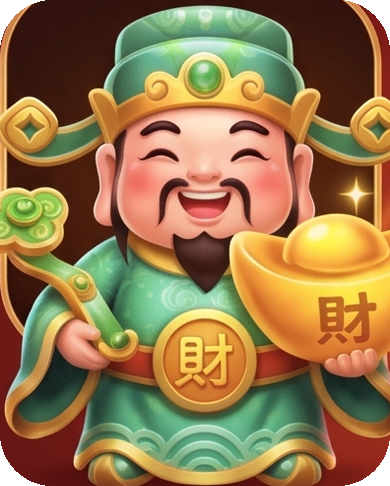
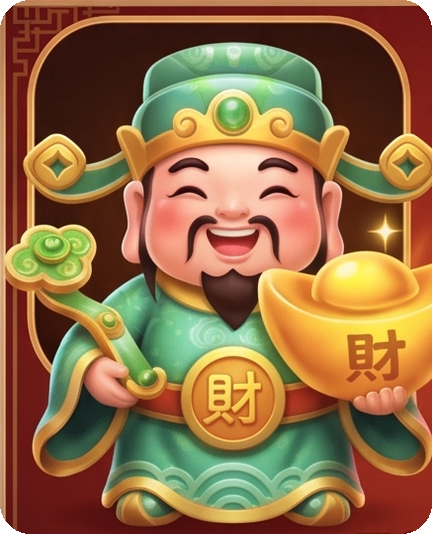
skin: 財神切圖右緣切到元寶，重切並修獎池滾輪位置
- deco-mascot：切框右緣從 690 拉到 703（含元寶溢出面板的部分），上緣補到面板真正的
  邊界 963；layout 改成 x136 y379 w216 h267
- board-frame：中央卡的底色改從「財神面板右側乾淨帶 + 滾輪左側卡底」取樣，
  原本取卡片最左緣（帶陰影）導致底色偏暗，財神那塊會浮出一個亮色方框
- pool.digits：改用美術稿實測值（x201 y646 w319 h104 / 49x79），
  「目前累積」不再被財神面板壓到

diff --git a/tools/build-skin.py b/tools/build-skin.py
@@ -19,7 +19,7 @@ a = np.asarray(im).astype(np.uint8)
 FRAME = (38, 613, 1400, 1966)        # 盤面外框
 CARD = (252, 829, 1178, 1745)        # 中央紅卡
 RIBBON = (252, 826, 1178, 972)       # 卡片頂端「財神樂透」緞帶
-MASCOT = (294, 1000, 690, 1490)      # 財神內嵌面板
+MASCOT = (266, 963, 703, 1500)       # 財神內嵌面板（右邊界要含元寶溢出的部分，切在賠率表文字左緣之前）
 TITLE_BAND = (0, 0, AW, 282)         # 頂端標題美術字（含蝙蝠）
 BOTTOM_BAND = (0, 2570, AW, AH)      # 金幣堆 + 底部狀態列
 BAR_TOP = 2758                       # 底部狀態列上緣
@@ -131,8 +131,12 @@ def build_board_frame():
 
     # 中央紅卡內部清空（緞帶／財神／賠率表／獎池數字都由 sprite 或程式畫）
     cx0, cy0, cx1, cy1 = 286, 975, 1146, 1715
-    col = np.median(a[cy0:cy1, 258:292].astype(float), axis=1)   # 卡片左側乾淨帶
-    col = _smooth(col, 18)
+    # 取樣列：財神面板右側的乾淨窄帶（上半）＋ 滾輪左側的卡片底（下半）
+    col = np.concatenate([
+        np.median(a[cy0:1520, 692:703].astype(float), axis=1),
+        np.median(a[1520:cy1, 300:392].astype(float), axis=1),
+    ])
+    col = _smooth(col, 22)
     for y in range(cy0, cy1):
         fr[y - oy, cx0 - ox:cx1 - ox] = col[y - cy0].astype(np.uint8)
 
@@ -156,7 +160,7 @@ def art_to_design(box):
 def build_pieces():
     for name, box, radius in (
         ("deco-title", RIBBON, 10),
-        ("deco-mascot", MASCOT, 26),
+        ("deco-mascot", MASCOT, 15),
     ):
         d = art_to_design(box)
         piece = im.crop(box).resize((d[2] * 2, d[3] * 2), Image.LANCZOS)